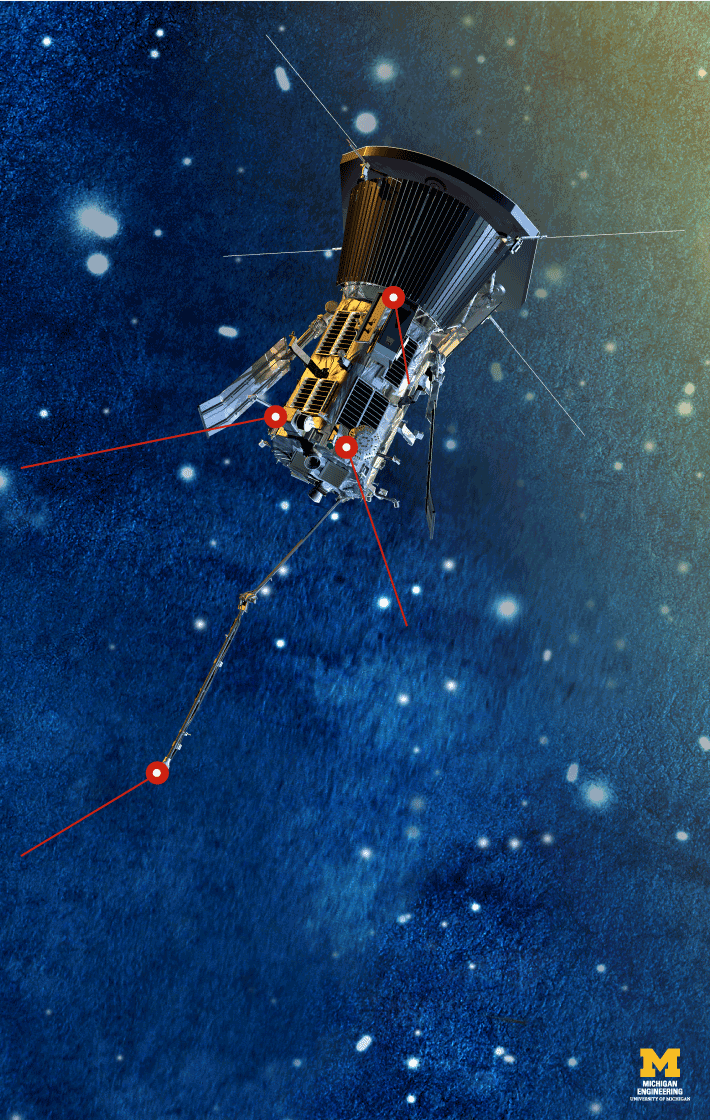
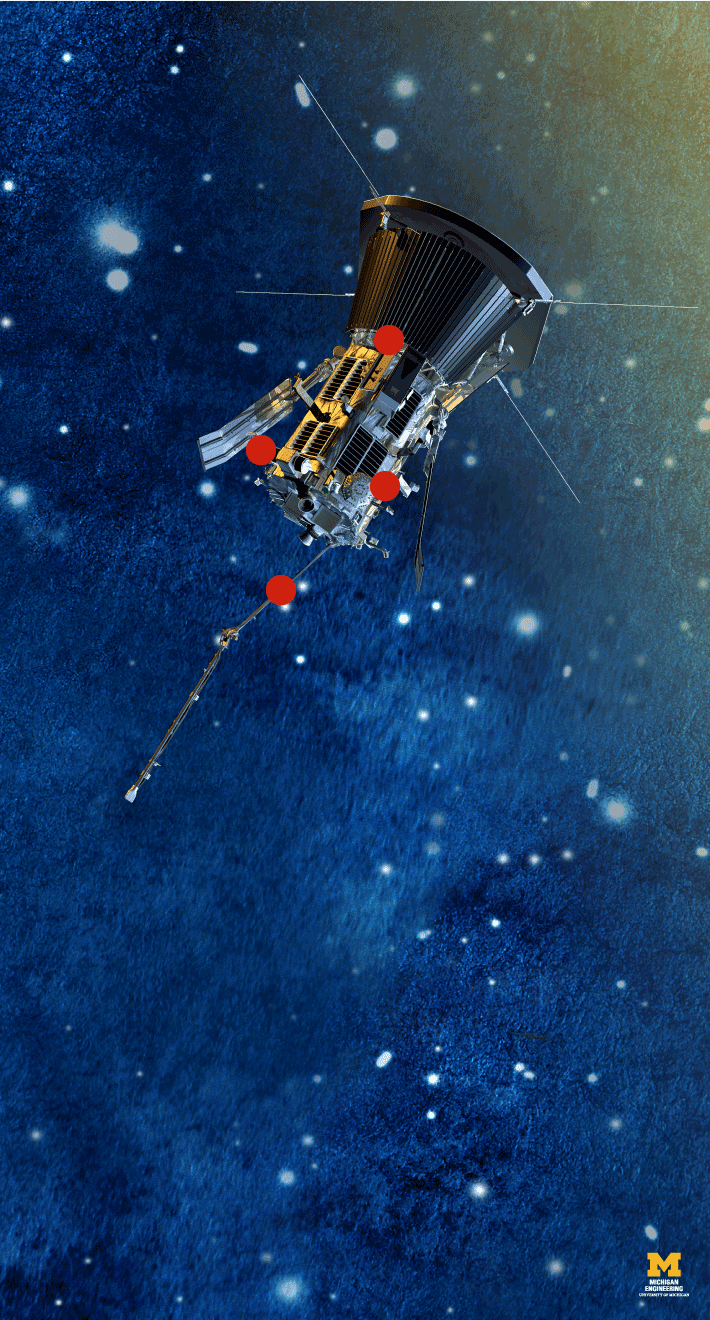
change layout for mobile

diff --git a/ai2html/parker-probe/ai2html-output_psp-01/index.html b/ai2html/parker-probe/ai2html-output_psp-01/index.html
@@ -20,7 +20,7 @@ p {
 </head>
 <body>
 <div id="coe-psp-01-box" class="ai2html">
-	<!-- Generated by ai2html v0.65.1-coe-customized-v2 - 2018-03-20 - 15:42 -->
+	<!-- Generated by ai2html v0.65.1-coe-customized-v2 - 2018-03-20 - 15:59 -->
 	<!-- ai file: psp-01.ai -->
 
 	<style type='text/css' media='screen,print'>
@@ -309,42 +309,73 @@ p {
 			#coe-psp-01-mobile-355 .coe-pstyle0 {
 				font-family:'Open Sans',arial,helvetica,sans-serif;
 				font-weight:700;
-				font-size:16px;
-				line-height:19px;
+				font-size:13px;
+				line-height:17px;
 				text-transform:uppercase;
 			}
 			#coe-psp-01-mobile-355 .coe-pstyle1 {
+				font-size:13px;
+				line-height:17px;
+			}
+			#coe-psp-01-mobile-355 .coe-pstyle2 {
+				font-family:'Open Sans',arial,helvetica,sans-serif;
+				font-weight:800;
+				line-height:17px;
+				text-align:center;
+				text-transform:uppercase;
+			}
+			#coe-psp-01-mobile-355 .coe-pstyle3 {
 				font-family:'Open Sans',arial,helvetica,sans-serif;
 				font-weight:700;
 			}
 		</style>
-		<div id="coe-ai3-0" class="coe-aiBackgroundImg" style="width:100%;padding-bottom:157.75%; background-image:url(img/psp-01-mobile-355.png);"></div>
-		<div id="coe-ai3-1" class="coe-shadow coe-aiAbs coe-aiPointText" style="top:3.3391%;margin-top:-10.7px;left:2.8169%;width:168px;">
+		<div id="coe-ai3-0" class="coe-aiBackgroundImg" style="width:100%;padding-bottom:185.92%; background-image:url(img/psp-01-mobile-355.png);"></div>
+		<div id="coe-ai3-1" class="coe-shadow coe-aiAbs" style="top:1.3636%;left:2.8169%;width:95.2113%;">
 			<p class="coe-pstyle0">Parkers's Toolbox</p>
+			<p class="coe-pstyle1">Sampling the sun&rsquo;s atmosphere requires NASA to pack the Parker Solar Probe with a variety of sensing and optical equipment. The gear is aimed at providing answers in four different areas of scientific inquiry.</p>
 		</div>
-		<div id="coe-ai3-2" class="coe-shadow coe-aiAbs" style="top:5.3571%;left:2.8169%;width:95.2113%;">
-			<p>Sampling the sun&rsquo;s atmosphere requires NASA to pack the Parker Solar Probe with a variety of sensing and optical equipment. The gear is aimed at providing answers in four different areas of scientific inquiry.</p>
+		<div id="coe-ai3-2" class="coe-shadow coe-aiAbs coe-aiPointText" style="top:25.8067%;margin-top:-9.3px;left:54.5808%;margin-left:-0.8451%;width:8px;">
+			<p class="coe-pstyle2">1</p>
 		</div>
-		<div id="coe-ai3-3" class="coe-shadow coe-aiAbs" style="top:34.8214%;left:57.6781%;width:39.4366%;">
-			<p class="coe-pstyle1">Wide-field Imager for </p>
-			<p class="coe-pstyle1">Solar Probe (WISPR)</p>
+		<div id="coe-ai3-3" class="coe-shadow coe-aiAbs coe-aiPointText" style="top:34.1401%;margin-top:-9.3px;left:36.557%;margin-left:-0.8451%;width:8px;">
+			<p class="coe-pstyle2">2</p>
+		</div>
+		<div id="coe-ai3-4" class="coe-shadow coe-aiAbs coe-aiPointText" style="top:37.0189%;margin-top:-9.3px;left:54.3035%;margin-left:-0.8451%;width:8px;">
+			<p class="coe-pstyle2">3</p>
+		</div>
+		<div id="coe-ai3-5" class="coe-shadow coe-aiAbs coe-aiPointText" style="top:44.7461%;margin-top:-9.3px;left:39.3739%;margin-left:-0.8451%;width:8px;">
+			<p class="coe-pstyle2">4</p>
+		</div>
+		<div id="coe-ai3-6" class="coe-shadow coe-aiAbs coe-aiPointText" style="top:50.6552%;margin-top:-9.3px;left:3.4331%;margin-left:-1.4085%;width:12px;">
+			<p class="coe-pstyle2">1.</p>
+		</div>
+		<div id="coe-ai3-7" class="coe-shadow coe-aiAbs" style="top:49.697%;left:6.1289%;width:93.8028%;">
+			<p class="coe-pstyle3">Wide-field Imager for Solar Probe (WISPR)</p>
 			<p>Will be capturing images of the solar wind and plasma in the atmosphere. Will derive the 3D structure of the large-scale corona.</p>
 		</div>
-		<div id="coe-ai3-4" class="coe-shadow coe-aiAbs" style="top:42.3214%;left:2.8169%;width:39.4366%;">
-			<p class="coe-pstyle1">Solar Wind Electrons and Protons (SWEAP) Investigation</p>
+		<div id="coe-ai3-8" class="coe-shadow coe-aiAbs coe-aiPointText" style="top:60.3522%;margin-top:-9.3px;left:3.4331%;margin-left:-1.4085%;width:12px;">
+			<p class="coe-pstyle2">2.</p>
+		</div>
+		<div id="coe-ai3-9" class="coe-shadow coe-aiAbs" style="top:59.3939%;left:6.1972%;width:91.2676%;">
+			<p class="coe-pstyle3">Solar Wind Electrons and Protons (SWEAP) Investigation</p>
 			<p>A trio of sensors will break down the makeup of the solar wind &ndash; counting the electrons, protons and helium ions it includes and measuring their velocity, density and temperatures.</p>
 		</div>
-		<div id="coe-ai3-5" class="coe-shadow coe-aiAbs" style="top:56.25%;left:57.8144%;width:39.4366%;">
-			<p class="coe-pstyle1">Integrated Science </p>
-			<p class="coe-pstyle1">Investigation of the Sun (IS0IS)</p>
+		<div id="coe-ai3-10" class="coe-shadow coe-aiAbs" style="top:69.0909%;left:6.2652%;width:90.4225%;">
+			<p class="coe-pstyle3">Integrated Science Investigation of the Sun (IS0IS)</p>
 			<p>Cataloging the energetic electrons, protons and heavy ions that are accelerated in the atmosphere as well as the inner heliosphere. Handled by the Energetic Particle Instrument &ndash; it&rsquo;s made up of one double-ended high-energy telescope and a pair of low-energy telescopes.</p>
 		</div>
-		<div id="coe-ai3-6" class="coe-shadow coe-aiAbs" style="top:77.1429%;left:2.8205%;width:39.4366%;">
-			<p class="coe-pstyle1">FIELDS Experiment</p>
+		<div id="coe-ai3-11" class="coe-shadow coe-aiAbs coe-aiPointText" style="top:70.0491%;margin-top:-9.3px;left:3.4331%;margin-left:-1.4085%;width:12px;">
+			<p class="coe-pstyle2">3.</p>
+		</div>
+		<div id="coe-ai3-12" class="coe-shadow coe-aiAbs" style="top:82.7273%;left:6.1972%;width:90.9859%;">
+			<p class="coe-pstyle3">FIELDS Experiment</p>
 			<p>Measuring the strength of the magnetic and electric fields in the corona with voltage sensors and magnetometers. It will also gauge the absolute plasma density and electron temperatures.</p>
 		</div>
+		<div id="coe-ai3-13" class="coe-shadow coe-aiAbs coe-aiPointText" style="top:83.6855%;margin-top:-9.3px;left:3.4331%;margin-left:-1.4085%;width:12px;">
+			<p class="coe-pstyle2">4.</p>
+		</div>
 	</div>
-	<!-- End ai2html - 2018-03-20 - 15:42 -->
+	<!-- End ai2html - 2018-03-20 - 15:59 -->
 </div>
 <p class='credit'>Infographic: Michigan Engineering</p>
 <script src='https://cdnjs.cloudflare.com/ajax/libs/iframe-resizer/3.5.16/iframeResizer.contentWindow.min.js'></script>
